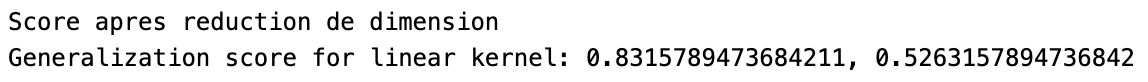
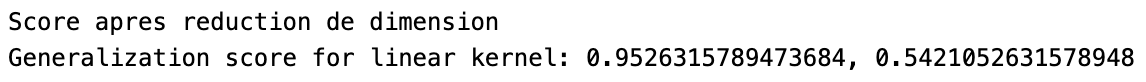
Ajout d'images

Changed region(s): [[0.0611, 0.5854, 1.0, 0.8537], [0.0916, 0.1463, 0.4581, 0.3659]]

diff --git a/Source/svm_script.py b/Source/svm_script.py
@@ -342,7 +342,7 @@ run_svm_cv(X_noisy,y)
 
 #%%
 # Q6
-n_components = 100  # jouer avec ce parametre
+n_components = 90  # jouer avec ce parametre
 pca = PCA(n_components=n_components,svd_solver='randomized').fit(X_noisy)
 X_noisy2 = pca.transform(X_noisy)
 print("Score apres reduction de dimension")
